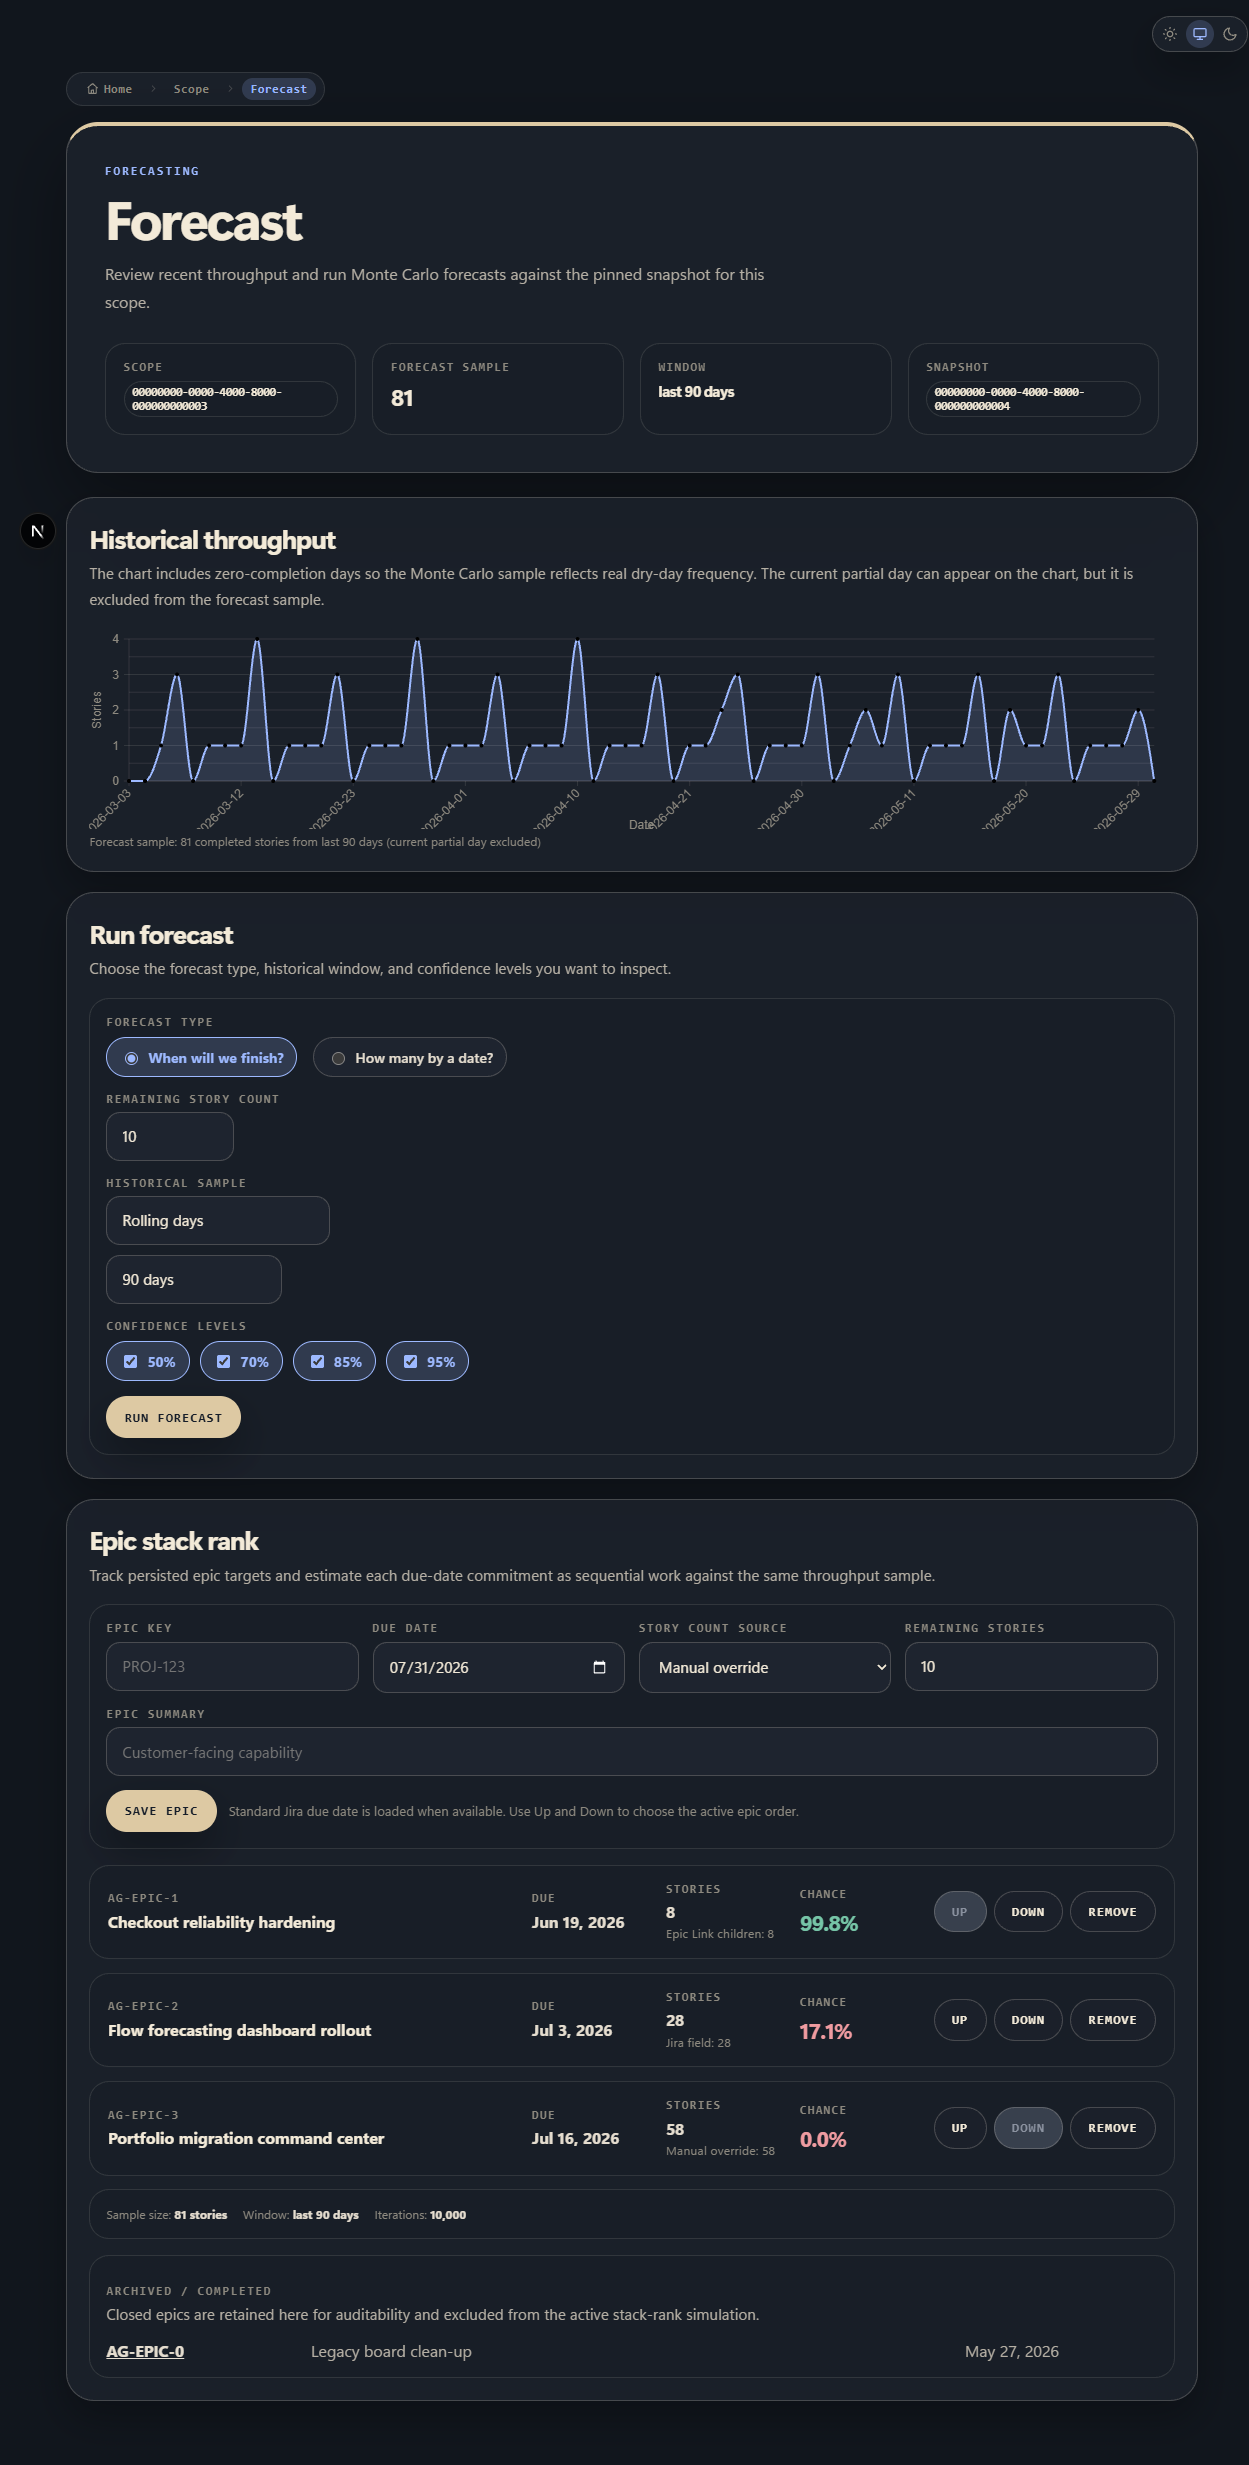
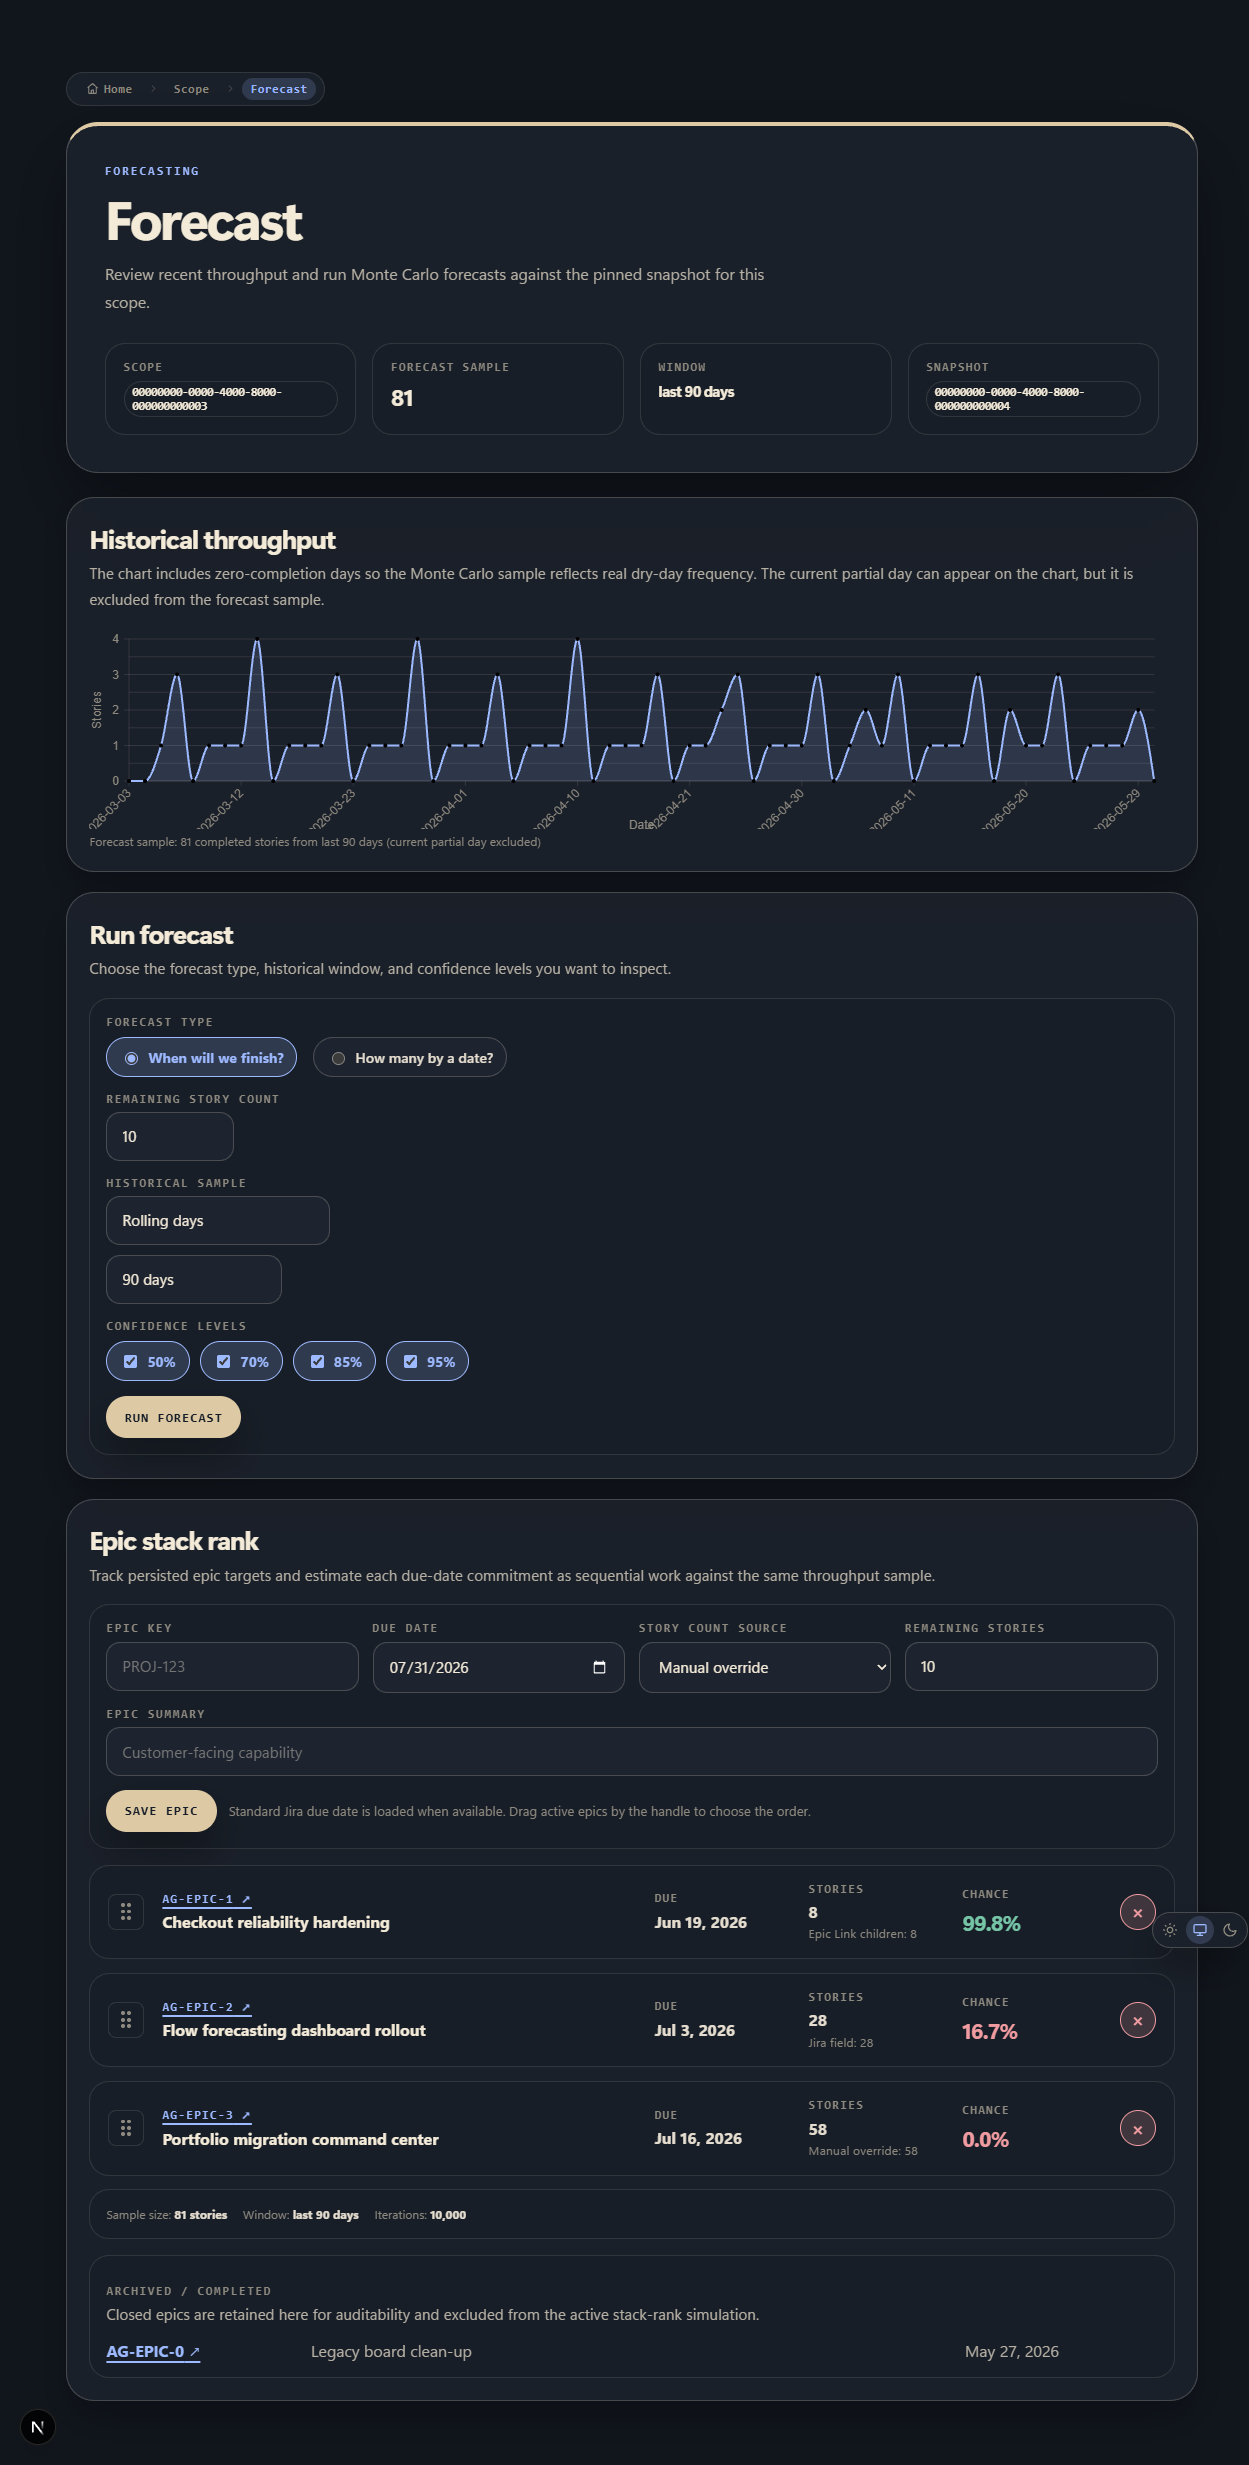
Polish epic forecast card controls

diff --git a/apps/web/src/components/forecast/epic-forecast-panel.tsx b/apps/web/src/components/forecast/epic-forecast-panel.tsx
@@ -1,6 +1,6 @@
 'use client';
 
-import { useCallback, useEffect, useState, type FormEvent } from 'react';
+import { useCallback, useEffect, useState, type CSSProperties, type FormEvent } from 'react';
 import {
   appendSampleWindowSearchParams,
   formatSampleWindowLabel,
@@ -82,6 +82,8 @@ export function EpicForecastPanel({
   const [error, setError] = useState<string | null>(null);
   const [lookupMessage, setLookupMessage] = useState<string | null>(null);
   const [hoveredChanceTargetId, setHoveredChanceTargetId] = useState<string | null>(null);
+  const [draggedTargetId, setDraggedTargetId] = useState<string | null>(null);
+  const [dragOverTargetId, setDragOverTargetId] = useState<string | null>(null);
   const [jiraIssueKey, setJiraIssueKey] = useState('');
   const [summary, setSummary] = useState('');
   const [dueDate, setDueDate] = useState(dateOffset(60));
@@ -207,19 +209,18 @@ export function EpicForecastPanel({
     }
   }
 
-  async function moveTarget(resultIndex: number, direction: -1 | 1) {
+  async function reorderTarget(sourceTargetId: string, destinationTargetId: string) {
     if (!response) return;
-    const nextIndex = resultIndex + direction;
-    if (nextIndex < 0 || nextIndex >= activeResults.length) return;
-
-    const current = response.targets.find((target) => target.id === activeResults[resultIndex]!.targetId);
-    const next = response.targets.find((target) => target.id === activeResults[nextIndex]!.targetId);
-    if (!current || !next) return;
+    if (sourceTargetId === destinationTargetId) return;
 
     const reorderedResults = [...activeResults];
-    const [movedResult] = reorderedResults.splice(resultIndex, 1);
+    const sourceIndex = reorderedResults.findIndex((result) => result.targetId === sourceTargetId);
+    const destinationIndex = reorderedResults.findIndex((result) => result.targetId === destinationTargetId);
+    if (sourceIndex === -1 || destinationIndex === -1) return;
+
+    const [movedResult] = reorderedResults.splice(sourceIndex, 1);
     if (!movedResult) return;
-    reorderedResults.splice(nextIndex, 0, movedResult);
+    reorderedResults.splice(destinationIndex, 0, movedResult);
 
     setSaving(true);
     setError(null);
@@ -314,7 +315,7 @@ export function EpicForecastPanel({
             Save Epic
           </button>
           <p style={{ ...helperTextStyle, margin: 0 }}>
-            Standard Jira due date is loaded when available. Use Up and Down to choose the active epic order.
+            Standard Jira due date is loaded when available. Drag active epics by the handle to choose the order.
           </p>
         </div>
       </form>
@@ -347,21 +348,81 @@ export function EpicForecastPanel({
 
       {response && activeResults.length > 0 ? (
         <div style={{ display: 'grid', gap: '0.85rem' }}>
-          {activeResults.map((result, index) => {
+          {activeResults.map((result) => {
             const tone = chanceTone(result.completionChance);
             const target = response.targets.find((candidate) => candidate.id === result.targetId);
             const percentileSummary = formatPercentileSummary(result.completionDatePercentiles);
             return (
               <article
                 key={result.targetId}
+                onDragOver={(event) => {
+                  if (busy || !draggedTargetId) return;
+                  event.preventDefault();
+                  event.dataTransfer.dropEffect = 'move';
+                  setDragOverTargetId(result.targetId);
+                }}
+                onDragLeave={() => {
+                  if (dragOverTargetId === result.targetId) {
+                    setDragOverTargetId(null);
+                  }
+                }}
+                onPointerEnter={() => {
+                  if (!busy && draggedTargetId && draggedTargetId !== result.targetId) {
+                    setDragOverTargetId(result.targetId);
+                  }
+                }}
+                onPointerUp={() => {
+                  const sourceTargetId = draggedTargetId;
+                  setDraggedTargetId(null);
+                  setDragOverTargetId(null);
+                  if (sourceTargetId) {
+                    void reorderTarget(sourceTargetId, result.targetId);
+                  }
+                }}
+                onDrop={(event) => {
+                  event.preventDefault();
+                  const sourceTargetId = event.dataTransfer.getData('text/plain') || draggedTargetId;
+                  setDraggedTargetId(null);
+                  setDragOverTargetId(null);
+                  if (sourceTargetId) {
+                    void reorderTarget(sourceTargetId, result.targetId);
+                  }
+                }}
                 style={{
                   ...statCardStyle,
                   display: 'grid',
                   gap: '0.9rem',
-                  gridTemplateColumns: 'minmax(0, 1.2fr) repeat(3, minmax(110px, 0.35fr)) auto',
+                  gridTemplateColumns: '2.5rem minmax(0, 1.2fr) repeat(3, minmax(110px, 0.35fr)) 2.5rem',
                   alignItems: 'center',
+                  outline: dragOverTargetId === result.targetId ? `2px solid ${palette.accentStrong}` : undefined,
+                  opacity: draggedTargetId === result.targetId ? 0.72 : 1,
                 }}
               >
+                <div
+                  role="button"
+                  tabIndex={busy ? -1 : 0}
+                  draggable={!busy}
+                  aria-disabled={busy}
+                  aria-label={`Drag ${result.jiraIssueKey} to reorder`}
+                  title={`Drag ${result.jiraIssueKey} to reorder`}
+                  onDragStart={(event) => {
+                    event.dataTransfer.effectAllowed = 'move';
+                    event.dataTransfer.setData('text/plain', result.targetId);
+                    setDraggedTargetId(result.targetId);
+                  }}
+                  onPointerDown={() => {
+                    if (!busy) {
+                      setDraggedTargetId(result.targetId);
+                    }
+                  }}
+                  onDragEnd={() => {
+                    setDraggedTargetId(null);
+                    setDragOverTargetId(null);
+                  }}
+                  style={dragHandleButtonStyle(busy)}
+                >
+                  <DragGripIcon />
+                </div>
                 <div style={{ minWidth: 0 }}>
                   <p style={{ ...statLabelStyle, marginBottom: '0.35rem' }}>
                     {target?.directUrl ? (
@@ -369,10 +430,10 @@ export function EpicForecastPanel({
                         href={target.directUrl}
                         target="_blank"
                         rel="noreferrer"
-                        style={{ color: 'inherit', textDecoration: 'none' }}
+                        style={activeEpicLinkStyle}
                         title={`Open ${result.jiraIssueKey} in Jira`}
                       >
-                        {result.jiraIssueKey}
+                        {result.jiraIssueKey} ↗
                       </a>
                     ) : result.jiraIssueKey}
                   </p>
@@ -409,32 +470,16 @@ export function EpicForecastPanel({
                     {result.completionChance.toFixed(1)}%
                   </p>
                 </div>
-                <div style={{ display: 'flex', gap: '0.45rem', flexWrap: 'wrap', justifyContent: 'flex-end' }}>
-                  <button
-                    type="button"
-                    disabled={busy || index === 0}
-                    onClick={() => { void moveTarget(index, -1); }}
-                    style={buttonStyle('secondary', busy || index === 0)}
-                    title="Move epic earlier in the sequence"
-                  >
-                    Up
-                  </button>
-                  <button
-                    type="button"
-                    disabled={busy || index === activeResults.length - 1}
-                    onClick={() => { void moveTarget(index, 1); }}
-                    style={buttonStyle('secondary', busy || index === activeResults.length - 1)}
-                    title="Move epic later in the sequence"
-                  >
-                    Down
-                  </button>
+                <div style={{ display: 'flex', justifyContent: 'flex-end' }}>
                   <button
                     type="button"
                     disabled={busy}
                     onClick={() => { void removeTarget(result.targetId); }}
-                    style={buttonStyle('secondary', busy)}
+                    style={iconButtonStyle(busy)}
+                    aria-label={`Remove ${result.jiraIssueKey}`}
+                    title={`Remove ${result.jiraIssueKey}`}
                   >
-                    Remove
+                    ×
                   </button>
                 </div>
                 {hoveredChanceTargetId === result.targetId ? (
@@ -497,8 +542,8 @@ export function EpicForecastPanel({
               >
                 <strong style={{ color: palette.text }}>
                   {target.directUrl ? (
-                    <a href={target.directUrl} target="_blank" rel="noreferrer" style={{ color: 'inherit' }}>
-                      {target.jiraIssueKey}
+                    <a href={target.directUrl} target="_blank" rel="noreferrer" style={activeEpicLinkStyle}>
+                      {target.jiraIssueKey} ↗
                     </a>
                   ) : target.jiraIssueKey}
                 </strong>
@@ -560,4 +605,72 @@ function formatPercentileSummary(
         : `p${percentile.confidenceLevel}: unavailable`,
     )
     .join(', ')}`;
+}
+
+const activeEpicLinkStyle: CSSProperties = {
+  color: palette.accentStrong,
+  textDecoration: 'underline',
+  textDecorationThickness: '2px',
+  textUnderlineOffset: '0.22rem',
+};
+
+function dragHandleButtonStyle(disabled: boolean): CSSProperties {
+  return {
+    width: '2.25rem',
+    height: '2.25rem',
+    display: 'inline-grid',
+    placeItems: 'center',
+    borderRadius: '0.5rem',
+    border: `1px solid ${palette.line}`,
+    background: disabled ? palette.buttonDisabled : palette.panelAlt,
+    color: disabled ? palette.buttonDisabledText : palette.soft,
+    cursor: disabled ? 'not-allowed' : 'grab',
+    padding: 0,
+    userSelect: 'none',
+    touchAction: 'none',
+  };
+}
+
+function iconButtonStyle(disabled: boolean): CSSProperties {
+  return {
+    width: '2.25rem',
+    height: '2.25rem',
+    display: 'inline-grid',
+    placeItems: 'center',
+    borderRadius: '999px',
+    border: `1px solid ${disabled ? palette.line : palette.danger}`,
+    background: disabled ? palette.buttonDisabled : palette.dangerSoft,
+    color: disabled ? palette.buttonDisabledText : palette.danger,
+    cursor: disabled ? 'not-allowed' : 'pointer',
+    padding: 0,
+    fontSize: '1.15rem',
+    fontWeight: 800,
+    lineHeight: 1,
+  };
+}
+
+function DragGripIcon() {
+  return (
+    <span
+      aria-hidden="true"
+      style={{
+        display: 'grid',
+        gridTemplateColumns: 'repeat(2, 0.24rem)',
+        gridTemplateRows: 'repeat(3, 0.24rem)',
+        gap: '0.16rem',
+      }}
+    >
+      {Array.from({ length: 6 }).map((_, index) => (
+        <span
+          key={index}
+          style={{
+            width: '0.24rem',
+            height: '0.24rem',
+            borderRadius: '999px',
+            background: 'currentColor',
+          }}
+        />
+      ))}
+    </span>
+  );
 }